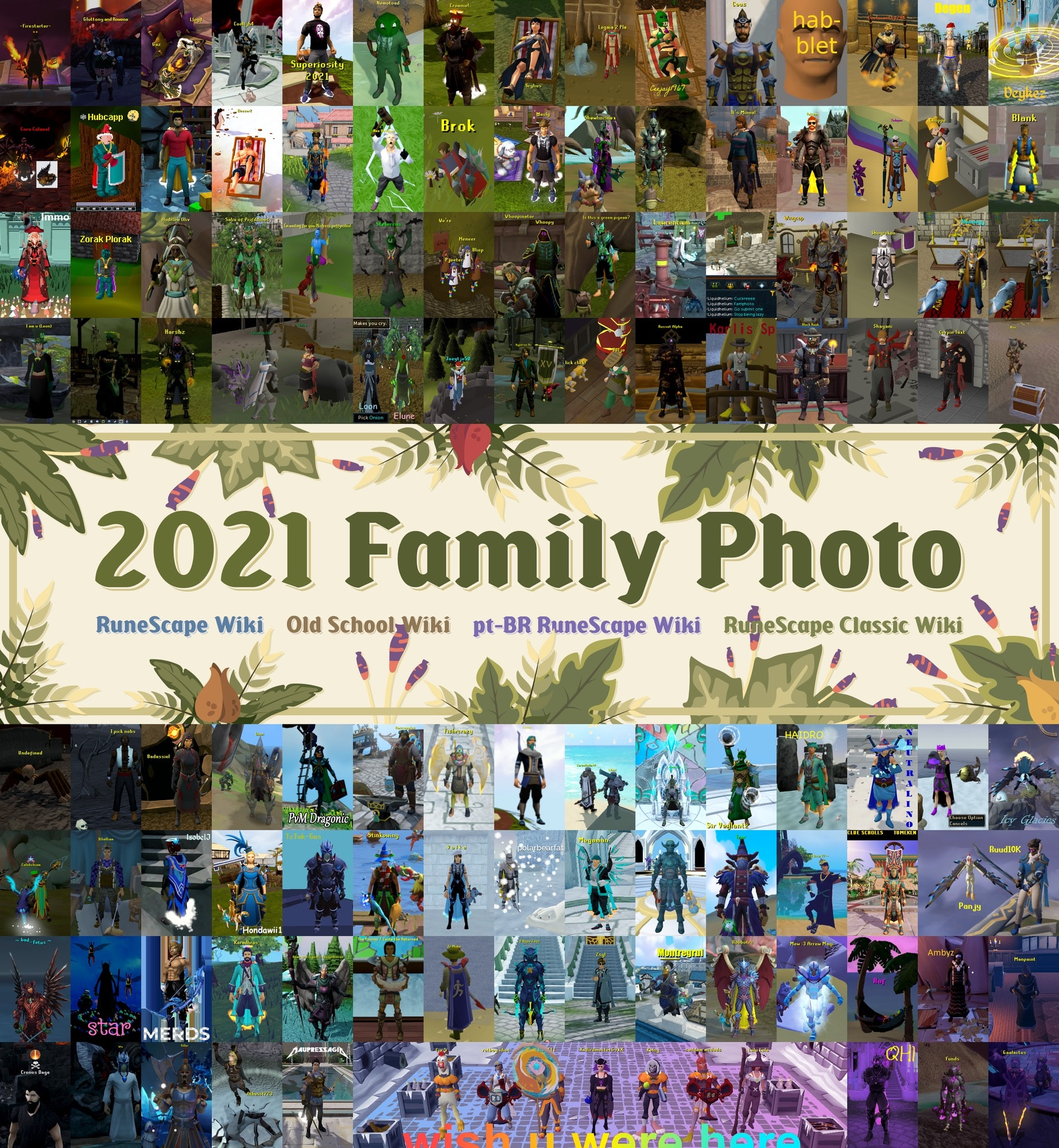
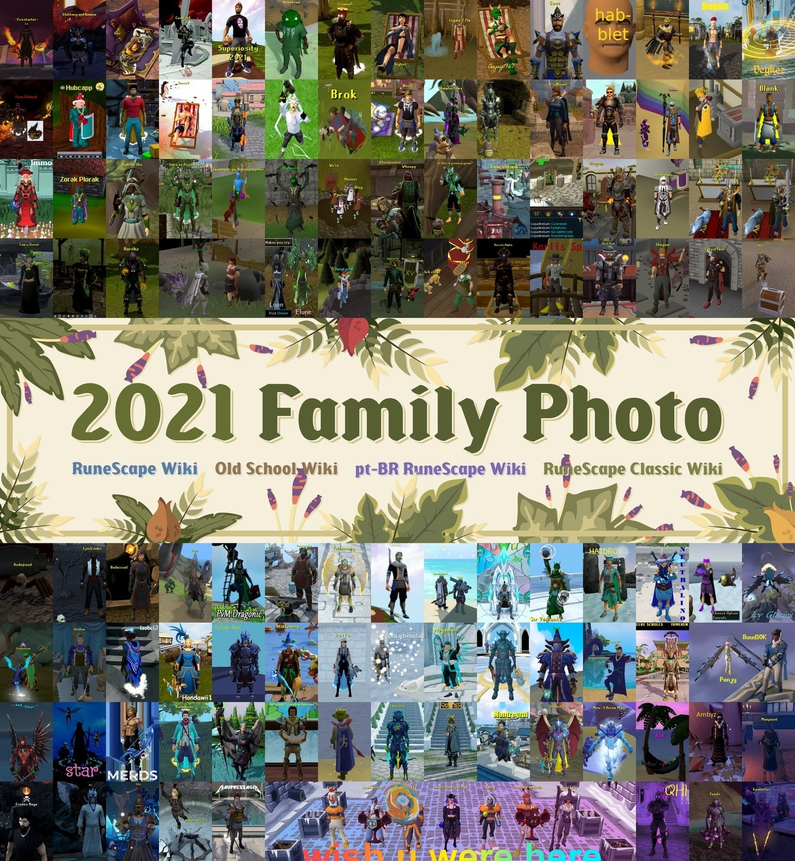
more image tweaks

diff --git a/index.html b/index.html
@@ -94,10 +94,10 @@
                 </li>
                 <li>
                     <div class="milestone-date">19 May</div>
-                    <h3>Took our 2021 Family Photo</h3>
-                    <div class="picture-container" style="float: right; width: 231px; margin-left: 1.5em">
+                    <h3>Organised our 2021 Family Photo</h3>
+                    <div class="picture-container" style="float: right; width: 225px; margin: .4em -45px 1.5em 1.5em">
                         <picture data-src-full="images/full/family-photo.jpg">
-                            <img width="231" height="250" class="thumb" loading="lazy" src="images/thumb/family-photo.jpg" srcset="images/thumb/family-photo@2x.jpg 2x" alt="Musicians performing onstage at the Golden Gnome Awards during RuneFest 2019" />
+                            <img width="231" height="250" class="thumb" loading="lazy" src="images/thumb/family-photo.jpg" srcset="images/thumb/family-photo@2x.jpg 2x" alt="The RuneScape Wikis' 2021 Family Photo" />
                         </picture>
                         <div class="fullscreen-button"><svg class="fullscreen-icon"><use href="images/icons/bootstrap-icons.svg#arrows-angle-expand"/></svg></div>
                     </div>
@@ -122,17 +122,17 @@
                 <li>
                     <div class="milestone-date">15 October</div>
                     <h3>Hosted a tech meetup</h3>
-                    <p>In mid-October, a small group of admins met in Philadelphia to improve the wikis' technical aspects. The week was spent updating PHP scripts, migrating databases, eating cheesesteaks, and fixing CSS in preparation for the upcoming MediaWiki upgrade.</p>
+                    <p>In mid-October, a small group of admins met in Philadelphia to improve the wikis' technical infrastructure. The week was spent updating PHP scripts, migrating databases, eating cheesesteaks, and fixing CSS in preparation for the upcoming MediaWiki upgrade.</p>
                     <figure>
                         <div class="picture-container">
-                            <picture data-src-full="images/full/independence-hall.jpg">
-                                <img width="600" height="357" class="thumb" loading="lazy" src="images/thumb/independence-hall.jpg" srcset="images/thumb/independence-hall@2x.jpg 2x" alt="The front of Independence Hall, where the Constitution and the Declaration of Independence were signed." />
+                            <picture data-src-full="images/full/genos-steaks.jpg">
+                                <img width="600" height="357" class="thumb" loading="lazy" src="images/thumb/genos-steaks.jpg" srcset="images/thumb/genos-steaks@2x.jpg 2x" alt="The exterior of Geno's Steaks, a restaurant that specialises in Philly cheesesteaks." />
                             </picture>
                             <div class="fullscreen-button"><svg class="fullscreen-icon"><use href="images/icons/bootstrap-icons.svg#arrows-angle-expand"/></svg></div>
                         </div>
                         <div class="picture-container">
-                            <picture data-src-full="images/full/genos-steaks.jpg">
-                                <img width="600" height="357" class="thumb" loading="lazy" src="images/thumb/genos-steaks.jpg" srcset="images/thumb/genos-steaks@2x.jpg 2x" alt="The exterior of Geno's Steaks, a restaurant that specialises in Philly cheesesteaks." />
+                            <picture data-src-full="images/full/independence-hall.jpg">
+                                <img width="600" height="357" class="thumb" loading="lazy" src="images/thumb/independence-hall.jpg" srcset="images/thumb/independence-hall@2x.jpg 2x" alt="The front of Independence Hall, where the Constitution and the Declaration of Independence were signed." />
                             </picture>
                             <div class="fullscreen-button"><svg class="fullscreen-icon"><use href="images/icons/bootstrap-icons.svg#arrows-angle-expand"/></svg></div>
                         </div>
@@ -149,12 +149,6 @@
                     <p>The Old School RuneScape Wiki launched a new sidebar widget showing the latest editing activity on the site. <a class="link" target="_blank" rel="noopener" href="https://oldschool.runescape.wiki/w/Special:Random/main">Check it out on any page</a>, or make an edit to see it featured on the sidebar in real time!</p>
                 </li>
             </ul>
-        </section>
-        <!-- QUIZ -->
-        <section>
-            <h2 id="quiz">Test your knowledge</h2>
-            <p>The wikis have no shortage of interesting facts, with dedicated trivia sections on over 15,000 pages. Think you know your stuff? Give our quizzes a go and see how you well you know the game! If you want to try more than one category, you'll get the chance to pick again after you finish your current quiz.</p>
-            <div class="quiz"></div>
         </section>
         <!-- TRAFFIC STATS -->
         <section>
@@ -432,9 +426,15 @@
             </div>
             <p>The wikis had an average TTFB of 270 milliseconds over the past year. For comparison, that's <a class="link" target="_blank" rel="noopener" href="https://performance.wikimedia.org/#!/year">20 percent faster than Wikipedia</a>, which averaged 340 milliseconds. When combined with <a class="link" target="_blank" rel="noopener" href="https://blog.cloudflare.com/orpheus/">improvements to our CDN</a>, these changes cut our average page load time nearly in half! Our upgrades helped keep us competitive with better-funded projects in pushing the MediaWiki software to its performance limits.</p>
         </section>
+        <!-- QUIZ -->
+        <section>
+            <h2 id="quiz">Test your knowledge</h2>
+            <p>The wikis have no shortage of interesting facts, with dedicated trivia sections on over 15,000 pages. Think you know your stuff? Give our quizzes a go and see how you well you know the game! If you want to try more than one category, you'll get the chance to pick again after you finish your current quiz.</p>
+            <div class="quiz"></div>
+        </section>
         <!-- CLOSING -->
         <section>
-            <p>2021 was a year full of unique trials, so we're looking forward to covering all the new game content coming in 2022. Whether it's Het's Oasis, the third Old School League, or the new Trade Octagon stock market minigame, we hope you'll check out the wikis as you play and help your fellow gamers document every rat in RuneScape.</p>
+            <p>2021 was a year full of unique trials, so we're looking forward to covering game content coming in 2022. Whether it's Het's Oasis, the third Old School League, or the new Trade Octagon stock market minigame, we hope you'll check out the wikis as you play and help your fellow gamers document every rat in RuneScape.</p>
             <p>If you want to get involved with the wiki, there's always work to do, and new projects are getting started all the time. If you haven't edited before and aren't sure where to start, join <a class="link social discord" target="_blank" rel="noopener" href="https://discord.com/invite/runescapewiki">our Discord</a> or tweet us, <a class="link social twitter" target="_blank" rel="noopener" href="https://twitter.com/rswiki">@RSWiki</a> and <a class="link social twitter" target="_blank" rel="noopener" href="https://twitter.com/osrs_wiki">@OSRS_Wiki</a>.</p>
             <p class="signature">&mdash; From all of us at the RuneScape Wikis<br />January 1, 2022<p>
         </section>

diff --git a/styles/main.css b/styles/main.css
@@ -1049,7 +1049,7 @@ section + section {
 .milestone-list {
     position: relative;
     list-style: none;
-    padding: 35px 0 15px 45px;
+    padding: 30px 45px 15px;
 }
 
 /* the vertical line */
@@ -1258,7 +1258,7 @@ section + section {
    -------------- */
 
 figure {
-    margin: 1em 0 0;
+    margin: 1em -45px 0 -45px; /* reverse left/right padding from .milestone-list */
     display: flex;
     flex-flow: row wrap;
 }
@@ -1333,12 +1333,12 @@ figcaption {
     -webkit-backdrop-filter: blur(7px);
     backdrop-filter: blur(7px);
     cursor: pointer;
-    animation: .55s fade-in cubic-bezier(0.22, 1, 0.36, 1);
+    animation: .5s fade-in cubic-bezier(0.22, 1, 0.36, 1);
 }
 
 .full-image-container {
     margin: auto;
-    animation: .55s cubic-bezier(0.22, 1, 0.36, 1);
+    animation: .5s cubic-bezier(0.22, 1, 0.36, 1);
     animation-name: scale-up, fade-in;
 }
 
